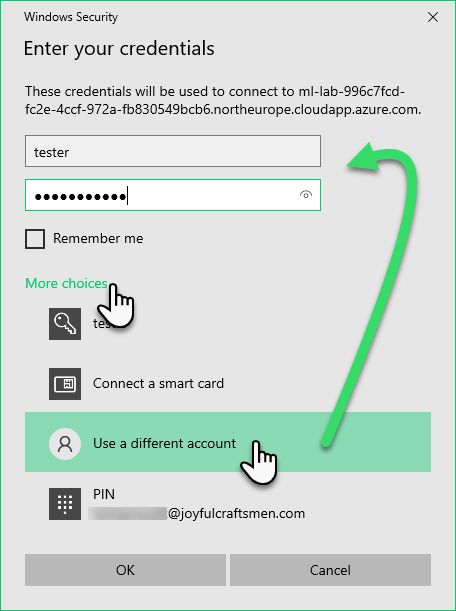
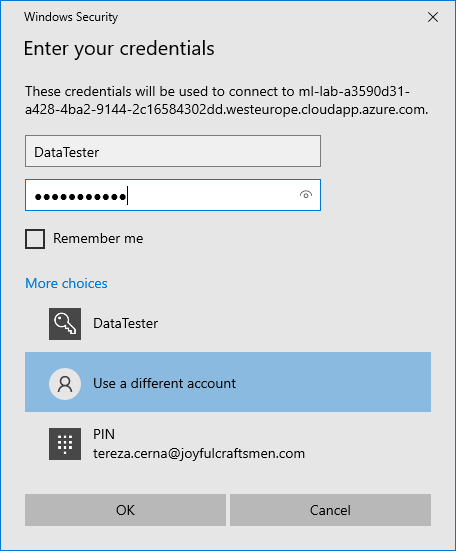
WS

Changed region(s): [[0.0, 0.0, 0.9518, 0.8639], [0.0, 0.0, 1.0, 1.0], [0.0614, 0.8947, 0.9518, 0.9564]]

diff --git a/Lab Registrace.md b/Lab Registrace.md
@@ -65,7 +65,7 @@ Inflating remote connection
 
 -   A zadejte jméno a heslo
 
-    -   Jméno: **tester**
+    -   Jméno: **DataTester**
 
     -   Heslo: **Superstar68**
 
@@ -83,4 +83,4 @@ PIN OK \@joyfulcraftsmen.com Cancel
 
  
 ![Machine generated alternative text: Joyful Craft\$hlen p Type here to
-search ](Images/media/i8.jpeg)
+search ](Images/media/i8.png)
